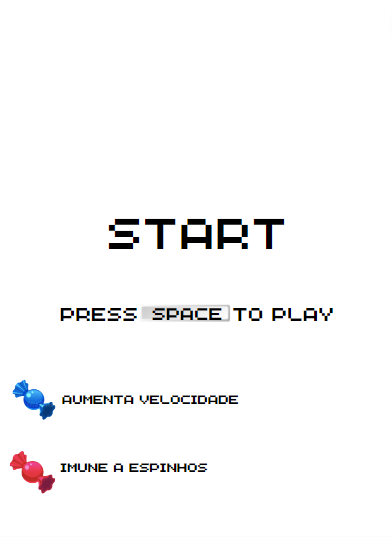
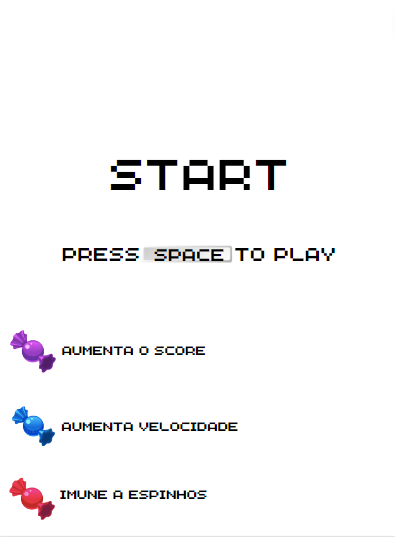
tela inicio

Changed region(s): [[0.0306, 0.5661, 0.9796, 1.0], [0.1531, 0.3873, 0.8571, 0.5065], [0.2755, 0.298, 0.7347, 0.3575]]

diff --git a/main.py b/main.py
@@ -3,6 +3,8 @@
 import pygame
 import random
 import math
+from os import path
+from init_screen import *
 
 pygame.init() 
 pygame.mixer.init()
@@ -15,6 +17,7 @@ WIDTH_bala = 40
 HEIGHT_bala = 40
 WIDTH_bird = 43 
 HEIGHT_bird = 53
+window = pygame.display.set_mode((480, 650))
 window = pygame.display.set_mode((WIDTH, HEIGHT))
 pygame.display.set_caption('Spikes!')
 
@@ -26,6 +29,7 @@ espinho_img_e = pygame.transform.scale(espinho_img_e, (40, 40))
 espinho_img_d = pygame.image.load('assets/img/espinho pro lado.png').convert_alpha()
 espinho_img_d = pygame.transform.scale(espinho_img_d, (40, 40))
 espinho_img_d = pygame.transform.flip(espinho_img_d, True,True)
+
 
 espinho_img_cima = pygame.image.load('assets/img/espinho_pra_cima.png').convert_alpha()
 espinho_img_cima = pygame.transform.scale(espinho_img_cima, (40, 40))
@@ -53,6 +57,13 @@ bird_img = pygame.transform.scale(bird_img, (HEIGHT_bird, WIDTH_bird))
 # background = pygame.transform.scale(background, (480, 650))
 background = pygame.image.load('assets/img/fundo2.png').convert()
 background = pygame.transform.scale(background, (480, 650))
+background2 = pygame.image.load('assets/img/fundo2.png').convert()
+background2 = pygame.transform.scale(background2, (480, 650))
+
+tela_inicio= pygame.image.load('assets/img/inicio.png').convert()
+tela_fim= pygame.image.load('assets/img/fim.png').convert()
+tela_fim= pygame.transform.scale(tela_fim, (480, 650))
+
 
 pygame.mixer.music.load('assets/sounds/M72VSQV-games-logo.mp3')
 pygame.mixer.music.set_volume(0.05)
@@ -174,7 +185,7 @@ class Bird(pygame.sprite.Sprite):
                     self.rect.x -= 5
         if self.cor == 'rosa':
             now = pygame.time.get_ticks()
-            if now - self.tempo_poder > 10000:
+            if now - self.tempo_poder > 5000:
                 self.cor = ''
             if self.rect.bottom > 610:
                 self.rect.bottom = 610
@@ -239,41 +250,27 @@ all_espinhos_baixo = pygame.sprite.Group()
 all_espinhos = pygame.sprite.Group()
 esp_e = pygame.sprite.Group()
 esp_d = pygame.sprite.Group()
-batida =  pygame.sprite.Group()
 bala_azul = pygame.sprite.Group()
+bala_preta = pygame.sprite.Group()
 bala_rosa = pygame.sprite.Group()
 bala_roxa = pygame.sprite.Group()
 bala_laranja = pygame.sprite.Group()
 player = Bird(bird_img_dir, bird_img_esq)
 all_sprites.add(player)
 
-# Criando os espinhos da parede 1
-if player.score <= 20:
-    while len(all_espinhos_e) < 4:
-        espinho = Espinho_lado_esquerdo(espinho_img_e)
-        hits = pygame.sprite.spritecollide(espinho, all_espinhos_e, True)
-        if len(hits) == 0:
-            all_espinhos_e.add(espinho)
-elif player.score > 20 and player.score <= 40: 
-    while len(all_espinhos_d) < 6:
-        espinho = Espinho_lado_direito(espinho_img_d)
-        hits = pygame.sprite.spritecollide(espinho, all_espinhos_d, True)
-        if len(hits) == 0:
-            all_espinhos_d.add(espinho)
+# Criando os espinhod da parede 1
+while len(all_espinhos_e) < 4:
+    espinho = Espinho_lado_esquerdo(espinho_img_e)
+    hits = pygame.sprite.spritecollide(espinho, all_espinhos_e, True)
+    if len(hits) == 0:
+        all_espinhos_e.add(espinho)
 
-# Criando os espinhos da parede 
-if player.score <= 20: 
-    while len(all_espinhos_d) < 4:
-        espinho = Espinho_lado_direito(espinho_img_d)
-        hits = pygame.sprite.spritecollide(espinho, all_espinhos_d, True)
-        if len(hits) == 0:
-            all_espinhos_d.add(espinho)
-elif player.score > 20 and player.score <= 40: 
-    while len(all_espinhos_d) < 6:
-        espinho = Espinho_lado_direito(espinho_img_d)
-        hits = pygame.sprite.spritecollide(espinho, all_espinhos_d, True)
-        if len(hits) == 0:
-            all_espinhos_d.add(espinho)
+# Criando os espinhos da parede 2
+while len(all_espinhos_d) < 4:
+    espinho = Espinho_lado_direito(espinho_img_d)
+    hits = pygame.sprite.spritecollide(espinho, all_espinhos_d, True)
+    if len(hits) == 0:
+        all_espinhos_d.add(espinho)
 
 # Criando os espinhos virados pra cima
 lista_esp_cima = [0,40,80,120,160,200,240,280,320,360,400,440]
@@ -297,15 +294,15 @@ while len(bala_azul) < 1:
     hits3 = pygame.sprite.spritecollide(balinha, all_espinhos_cima, True, pygame.sprite.collide_mask)
     if len(hits) == 0 and len(hits1) == 0 and len(hits2) == 0 and len(hits3) == 0:
         bala_azul.add(balinha)
-
-# Criando bala rosa
+# Criando bala azul
 while len(bala_rosa) < 1:
+    # balinha = Bala_azul(img_bala_azul)
     balinha1 = Bala_rosa(img_bala_rosa)
     hits = pygame.sprite.spritecollide(balinha1, esp_d, True, pygame.sprite.collide_mask)
     hits1 = pygame.sprite.spritecollide(balinha1, esp_e, True, pygame.sprite.collide_mask)
     hits2 = pygame.sprite.spritecollide(balinha1, all_espinhos_baixo, True, pygame.sprite.collide_mask)
     hits3 = pygame.sprite.spritecollide(balinha1, all_espinhos_cima, True, pygame.sprite.collide_mask)
-    if len(hits) == 0 and len(hits1) == 0 and len(hits2) == 0 and len(hits3) == 0: 
+    if len(hits) == 0 and len(hits1) == 0 and len(hits2) == 0 and len(hits3) == 0: #and len(hits4) == 0:
         bala_rosa.add(balinha1)
 
 # Criando bala roxa
@@ -332,12 +329,13 @@ all_sprites.add(all_espinhos_baixo)
 all_espinhos.add(all_espinhos_cima)
 all_espinhos.add(all_espinhos_baixo)
 
+
 esp_e.add(all_espinhos_e)
 esp_d.add(all_espinhos_d)
-batida.add(all_espinhos_e)
-batida.add(all_espinhos_d)
-batida.add(all_espinhos_cima)
-batida.add(all_espinhos_baixo)
+
+state = init_screen(window)
+if state !=GAME:
+    game=False
 
 # ===== Loop principal =====
 pygame.mixer.music.play(loops=-1)
@@ -362,39 +360,24 @@ while game:
     # ----- Gera saídas
     window.fill((0, 0, 0))  # Preenche com a cor branca
     window.blit(background, (0, 0))
-    
-    # Desenha os sprites das balas
+    # Desenha os sprites
     all_sprites.draw(window)
-    if player.score >= 15: 
-        bala_azul.draw(window)   
+    if player.score >= 3: 
+        bala_azul.draw(window)
 
-    if player.score >= 2:
+    if player.score >= 8:
         bala_rosa.draw(window)
-
-    if player.score >= 25:
-        bala_roxa.draw(window)
-
-    # Removendo bala rosa da tela
-    if player.score >= 7:
-        balinha1.kill()
-
-    # Removendo bala azul da tela
-    if player.score >= 20:
-        balinha.kill()
-
-    # Removendo bala roxa da tela
-    if player.score >= 30:
-        balinha2.kill()
-
 
     if player.indo_direita == True:
         hits = pygame.sprite.spritecollide(player, esp_d, True, pygame.sprite.collide_mask)
         if len(hits) != 0:
+            perdeu_sound.play()
             game = False 
         esp_d.draw(window)
     else:
         for espinho in esp_d:
             espinho.kill()
+        # criar lista da esquerda depois de bater
         while len(esp_e) < 4:
             espinho = Espinho_lado_esquerdo(espinho_img_e)
             hits = pygame.sprite.spritecollide(espinho, esp_e, True, pygame.sprite.collide_mask)
@@ -404,6 +387,7 @@ while game:
     if player.indo_direita == False:
         hits = pygame.sprite.spritecollide(player, esp_e, True, pygame.sprite.collide_mask)
         if len(hits) != 0:
+            perdeu_sound.play()
             game = False
         esp_e.draw(window)
     else:
@@ -416,7 +400,8 @@ while game:
             if len(hits) == 0:
                 esp_d.add(espinho)
 
-    hits = pygame.sprite.spritecollide(player, batida, False, pygame.sprite.collide_mask)
+
+    hits = pygame.sprite.spritecollide(player, all_espinhos, False, pygame.sprite.collide_mask)
     if len(hits) != 0 and player.cor != 'rosa':
         game = False
 

diff --git a/init_screen.py b/init_screen.py
@@ -1,0 +1,46 @@
+import pygame
+import random
+from os import path
+
+FPS=40
+IMG_DIR = path.join(path.dirname(__file__), 'assets', 'img')
+GAME=1
+QUIT=2
+BLACK=(0,0,0)
+
+
+def init_screen(screen):
+    # Variável para o ajuste de velocidade
+    clock = pygame.time.Clock()
+
+    # Carrega o fundo da tela inicial
+    tela_inicio = pygame.image.load(path.join(IMG_DIR, 'inicio.png')).convert()
+    tela_inicio= pygame.transform.scale(tela_inicio, (480, 650))
+
+    tela_inicio_rect = tela_inicio.get_rect()
+
+    running = True
+    while running:
+
+        # Ajusta a velocidade do jogo.
+        clock.tick(FPS)
+
+        # Processa os eventos (mouse, teclado, botão, etc).
+        for event in pygame.event.get():
+            # Verifica se foi fechado.
+            if event.type == pygame.QUIT:
+                state = QUIT
+                running = False
+
+            if event.type == pygame.KEYUP:
+                state = GAME
+                running = False
+
+        # A cada loop, redesenha o fundo e os sprites
+        screen.fill(BLACK)
+        screen.blit(tela_inicio, tela_inicio_rect)
+
+        # Depois de desenhar tudo, inverte o display.
+        pygame.display.flip()
+
+    return state
